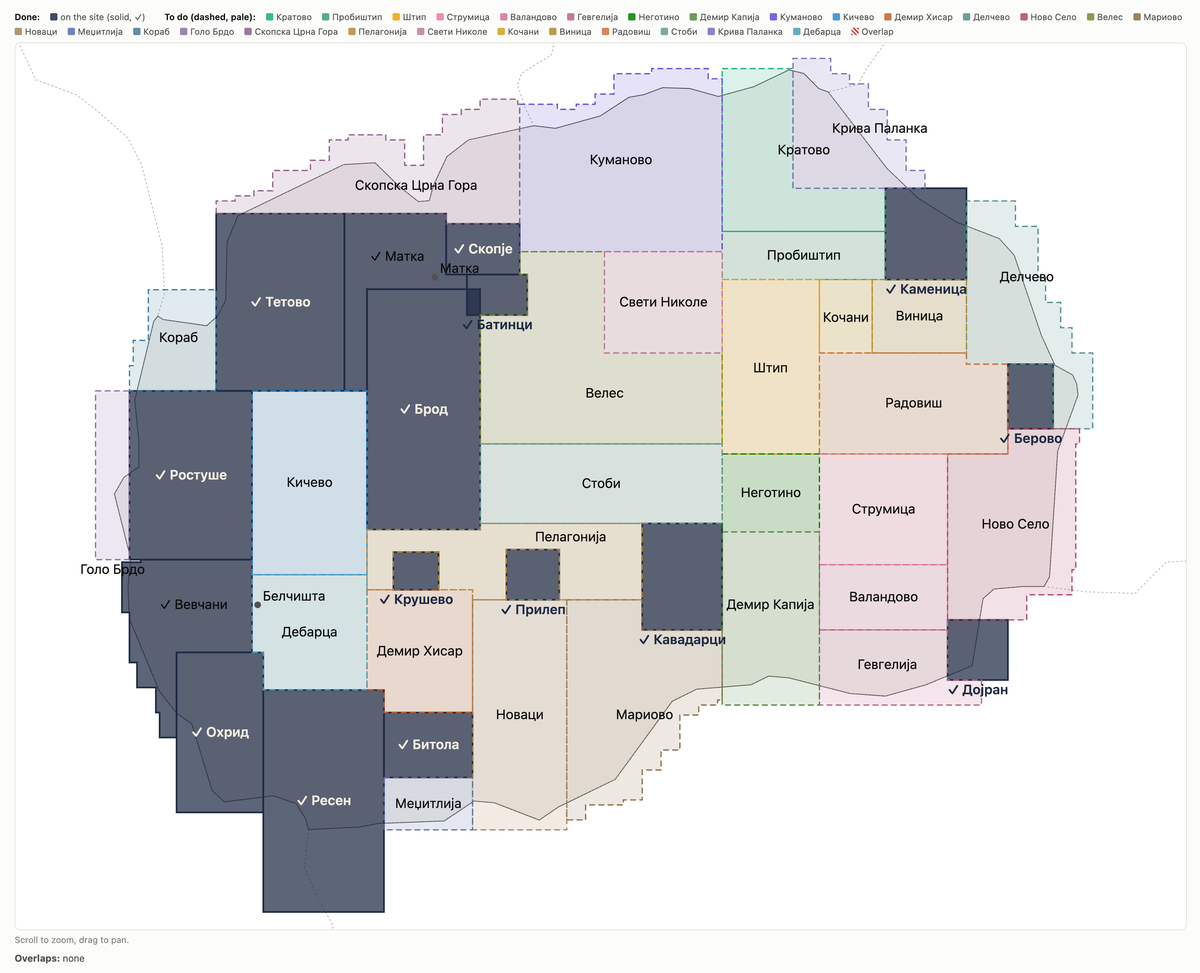
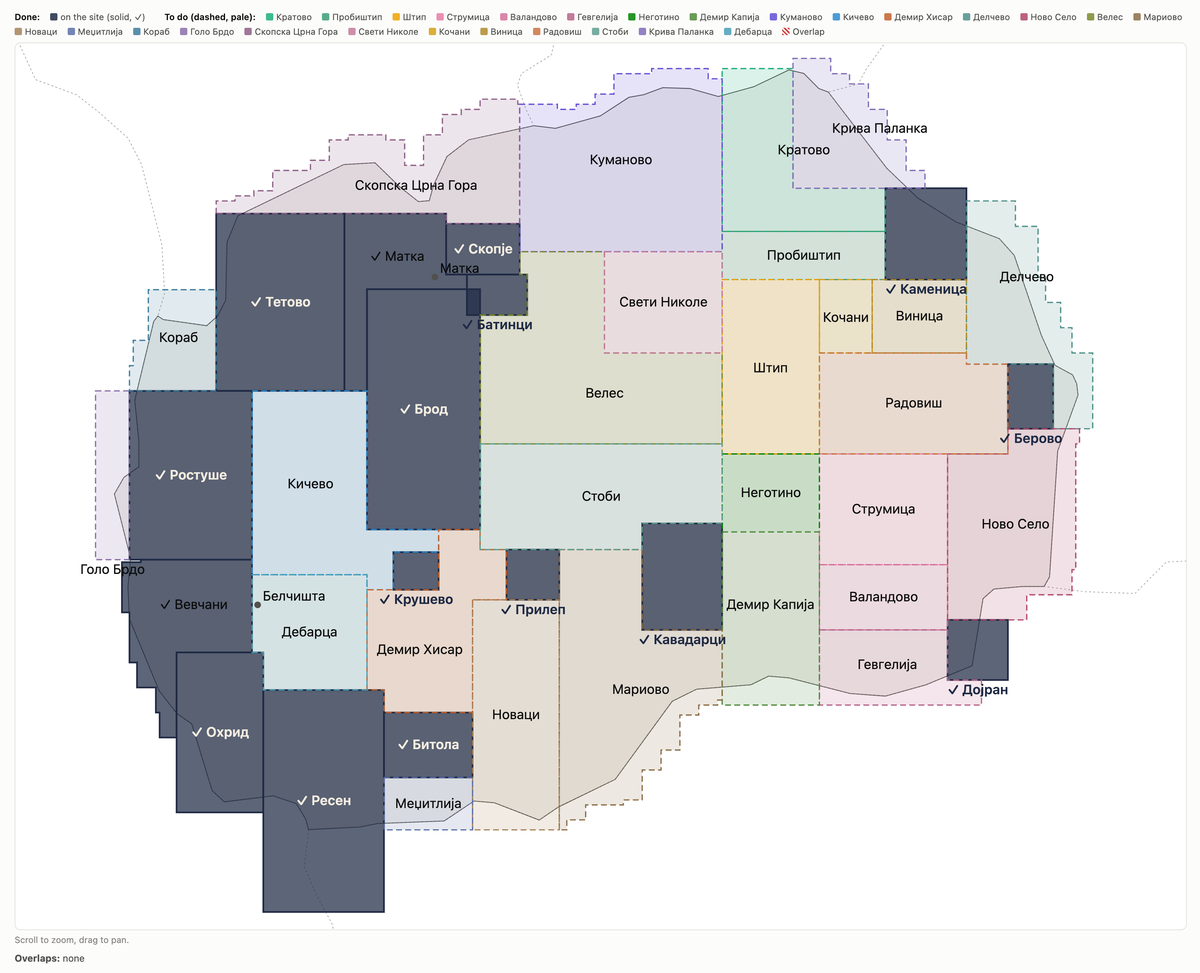
Towns plan: Пелагонија dropped, its parts to Кичево, Демир Хисар, Стоби and Мариово
Мариово reaches up to Стоби, Новаци's east edge lines up with Прилеп's, Стоби
reaches down to Прилеп's top (Кавадарци cut out), and Пелагонија is split:
west of and above Крушево to Кичево, the rest east of Крушево to Демир Хисар.
27 maps to do; areas, build order and the towns map redrawn.

diff --git a/src/zones.ts b/src/zones.ts
@@ -10,13 +10,13 @@ type Box = [name: string, s: number, w: number, n: number, e: number];
 type PlannedBox = [...Box, string];
 
 export const EXISTING: Box[] = [['Скопје', 41.955, 21.33, 42.055, 21.525], ['Кавадарци', 41.25, 21.85, 41.462, 22.062], ['Битола', 40.955, 21.165, 41.085, 21.40], ['Охрид', 40.885, 20.615, 41.205, 20.845], ['Прилеп', 41.31, 21.49, 41.41, 21.63], ['Крушево', 41.33, 21.19, 41.405, 21.31], ['Ростуше', 41.39, 20.49, 41.725, 20.815], ['Каменица', 41.945, 22.495, 42.125, 22.71], ['Дојран', 41.15, 22.66, 41.27, 22.82], ['Батинци', 41.875, 21.385, 41.955, 21.545], ['Берово', 41.65, 22.82, 41.778, 22.94], ['Тетово', 41.725, 20.72, 42.075, 21.06], ['Ресен', 40.685, 20.845, 41.13, 21.165], ['Брод', 41.45, 21.12, 41.926, 21.42], ['Матка', 41.725, 21.06, 42.075, 21.385], ['Вевчани', 41.035, 20.47, 41.39, 20.815]];
-export const PLANNED: PlannedBox[] = [['Кратово', 42.04, 22.062, 42.36, 22.495, '#1baf7a'], ['Пробиштип', 41.945, 22.062, 42.04, 22.495, '#3c9c74'], ['Штип', 41.60, 22.062, 41.945, 22.32, '#eda100'], ['Струмица', 41.38, 22.32, 41.60, 22.66, '#e87ba4'], ['Валандово', 41.25, 22.32, 41.38, 22.66, '#d2729a'], ['Гевгелија', 41.10, 22.32, 41.25, 22.75, '#b8648a'], ['Неготино', 41.445, 22.062, 41.60, 22.32, '#008300'], ['Демир Капија', 41.10, 22.062, 41.445, 22.32, '#4f8a3c'], ['Куманово', 42.00, 21.525, 42.36, 22.062, '#6250d6'], ['Кичево', 41.36, 20.815, 41.725, 21.12, '#2a8bd0'], ['Демир Хисар', 41.085, 21.12, 41.33, 21.40, '#c2622d'], ['Делчево', 41.65, 22.71, 42.20, 23.02, '#4f8f8a'], ['Ново Село', 41.27, 22.66, 41.65, 23.02, '#b0476b'], ['Велес', 41.62, 21.42, 42.00, 22.062, '#7a8a2e'], ['Мариово', 40.85, 21.65, 41.31, 22.062, '#8c6d46'], ['Новаци', 40.85, 21.40, 41.31, 21.65, '#a5825a'], ['Меџитлија', 40.85, 21.165, 40.955, 21.40, '#5b6fa8'], ['Кораб', 41.725, 20.49, 42.075, 20.72, '#3e7d9c'], ['Голо Брдо', 41.39, 20.40, 41.725, 20.49, '#8a6fa8'], ['Скопска Црна Гора', 42.055, 20.72, 42.30, 21.525, '#8e5f86'], ['Пелагонија', 41.31, 21.12, 41.462, 21.85, '#b58a3a'], ['Свети Николе', 41.80, 21.75, 42.00, 22.062, '#c47a9b'], ['Кочани', 41.80, 22.32, 41.945, 22.46, '#d4a017'], ['Виница', 41.80, 22.46, 41.945, 22.71, '#b08a2a'], ['Радовиш', 41.60, 22.32, 41.80, 22.82, '#c9733f'], ['Стоби', 41.462, 21.42, 41.62, 22.062, '#5f9e8f'], ['Крива Паланка', 42.125, 22.25, 42.36, 22.71, '#7f6bb8'], ['Дебарца', 41.13, 20.815, 41.36, 21.12, '#4a9fb5']];
+export const PLANNED: PlannedBox[] = [['Кратово', 42.04, 22.062, 42.36, 22.495, '#1baf7a'], ['Пробиштип', 41.945, 22.062, 42.04, 22.495, '#3c9c74'], ['Штип', 41.60, 22.062, 41.945, 22.32, '#eda100'], ['Струмица', 41.38, 22.32, 41.60, 22.66, '#e87ba4'], ['Валандово', 41.25, 22.32, 41.38, 22.66, '#d2729a'], ['Гевгелија', 41.10, 22.32, 41.25, 22.75, '#b8648a'], ['Неготино', 41.445, 22.062, 41.60, 22.32, '#008300'], ['Демир Капија', 41.10, 22.062, 41.445, 22.32, '#4f8a3c'], ['Куманово', 42.00, 21.525, 42.36, 22.062, '#6250d6'], ['Кичево', 41.33, 20.815, 41.725, 21.31, '#2a8bd0'], ['Демир Хисар', 41.085, 21.12, 41.45, 21.49, '#c2622d'], ['Делчево', 41.65, 22.71, 42.20, 23.02, '#4f8f8a'], ['Ново Село', 41.27, 22.66, 41.65, 23.02, '#b0476b'], ['Велес', 41.62, 21.42, 42.00, 22.062, '#7a8a2e'], ['Мариово', 40.85, 21.63, 41.41, 22.062, '#8c6d46'], ['Новаци', 40.85, 21.40, 41.31, 21.63, '#a5825a'], ['Меџитлија', 40.85, 21.165, 40.955, 21.40, '#5b6fa8'], ['Кораб', 41.725, 20.49, 42.075, 20.72, '#3e7d9c'], ['Голо Брдо', 41.39, 20.40, 41.725, 20.49, '#8a6fa8'], ['Скопска Црна Гора', 42.055, 20.72, 42.30, 21.525, '#8e5f86'], ['Свети Николе', 41.80, 21.75, 42.00, 22.062, '#c47a9b'], ['Кочани', 41.80, 22.32, 41.945, 22.46, '#d4a017'], ['Виница', 41.80, 22.46, 41.945, 22.71, '#b08a2a'], ['Радовиш', 41.60, 22.32, 41.80, 22.82, '#c9733f'], ['Стоби', 41.41, 21.42, 41.62, 22.062, '#5f9e8f'], ['Крива Паланка', 42.125, 22.25, 42.36, 22.71, '#7f6bb8'], ['Дебарца', 41.13, 20.815, 41.36, 21.12, '#4a9fb5']];
 /** rectangles cut out of a box's corners: [s, w, n, e] */
-export const CUTS: Record<string, [number, number, number, number][]> = { 'Дебарца': [[41.13, 20.815, 41.205, 20.845]], 'Демир Хисар': [[41.085, 21.12, 41.13, 21.165]], 'Радовиш': [[41.778, 22.71, 41.80, 22.82]], 'Кратово': [[42.125, 22.25, 42.36, 22.495]], 'Гевгелија': [[41.15, 22.66, 41.25, 22.75]] };
+export const CUTS: Record<string, [number, number, number, number][]> = { 'Дебарца': [[41.13, 20.815, 41.205, 20.845]], 'Радовиш': [[41.778, 22.71, 41.80, 22.82]], 'Кратово': [[42.125, 22.25, 42.36, 22.495]], 'Гевгелија': [[41.15, 22.66, 41.25, 22.75]], 'Стоби': [[41.41, 21.85, 41.462, 22.062]] };
 /** zones that are no rectangle at all: the outline as [lon, lat] */
-export const SHAPES: Record<string, [number, number][]> = { 'Куманово': [[21.525, 42.0], [21.525, 42.29], [21.625, 42.29], [21.625, 42.28], [21.675, 42.28], [21.675, 42.29], [21.725, 42.29], [21.725, 42.31], [21.775, 42.31], [21.775, 42.35], [21.875, 42.35], [21.875, 42.36], [22.025, 42.36], [22.025, 42.34], [22.062, 42.34], [22.062, 42.0]], 'Ново Село': [[22.66, 41.27], [22.66, 41.6], [22.82, 41.6], [22.82, 41.65], [23.01, 41.65], [23.01, 41.62], [23.0, 41.62], [23.0, 41.37], [22.99, 41.37], [22.99, 41.32], [22.87, 41.32], [22.87, 41.27]], 'Крива Паланка': [[22.25, 42.125], [22.25, 42.38], [22.35, 42.38], [22.35, 42.35], [22.4, 42.35], [22.4, 42.33], [22.45, 42.33], [22.45, 42.28], [22.5, 42.28], [22.5, 42.22], [22.55, 42.22], [22.55, 42.16], [22.6, 42.16], [22.6, 42.125]], 'Мариово': [[21.65, 41.31], [21.85, 41.31], [21.85, 41.25], [22.062, 41.25], [22.062, 41.11], [22.05, 41.11], [22.05, 41.1], [22.0, 41.1], [22.0, 41.08], [21.95, 41.08], [21.95, 41.01], [21.9, 41.01], [21.9, 40.97], [21.85, 40.97], [21.85, 40.91], [21.8, 40.91], [21.8, 40.9], [21.7, 40.9], [21.7, 40.87], [21.65, 40.87]], 'Делчево': [[22.94, 41.65], [22.94, 41.778], [22.71, 41.778], [22.71, 42.1], [22.84, 42.1], [22.84, 42.05], [22.9, 42.05], [22.9, 41.95], [22.92, 41.95], [22.92, 41.9], [22.96, 41.9], [22.96, 41.85], [22.99, 41.85], [22.99, 41.8], [23.045, 41.8], [23.045, 41.65]], 'Кораб': [[20.72, 41.725], [20.49, 41.725], [20.49, 41.775], [20.5, 41.775], [20.5, 41.825], [20.54, 41.825], [20.54, 41.925], [20.72, 41.925]], 'Вевчани': [[20.815, 41.39], [20.815, 41.205], [20.615, 41.205], [20.615, 41.035], [20.57, 41.035], [20.57, 41.085], [20.56, 41.085], [20.56, 41.135], [20.51, 41.135], [20.51, 41.185], [20.49, 41.185], [20.49, 41.285], [20.47, 41.285], [20.47, 41.385], [20.52, 41.385], [20.52, 41.39]], 'Скопска Црна Гора': [[20.72, 42.075], [20.72, 42.1], [20.77, 42.1], [20.77, 42.11], [20.82, 42.11], [20.82, 42.12], [20.87, 42.12], [20.87, 42.16], [20.97, 42.16], [20.97, 42.18], [21.02, 42.18], [21.02, 42.22], [21.07, 42.22], [21.07, 42.23], [21.17, 42.23], [21.17, 42.22], [21.22, 42.22], [21.22, 42.17], [21.27, 42.17], [21.27, 42.23], [21.32, 42.23], [21.32, 42.27], [21.37, 42.27], [21.37, 42.28], [21.42, 42.28], [21.42, 42.3], [21.52, 42.3], [21.52, 42.29], [21.525, 42.29], [21.525, 42.055], [21.33, 42.055], [21.33, 42.075]], 'Велес': [[21.42, 41.875], [21.545, 41.875], [21.545, 41.955], [21.525, 41.955], [21.525, 42.00], [21.75, 42.00], [21.75, 41.80], [22.062, 41.80], [22.062, 41.62], [21.42, 41.62]], 'Пелагонија': [[21.12, 41.45], [21.42, 41.45], [21.42, 41.462], [21.85, 41.462], [21.85, 41.31], [21.63, 41.31], [21.63, 41.41], [21.49, 41.41], [21.49, 41.31], [21.40, 41.31], [21.40, 41.33], [21.31, 41.33], [21.31, 41.405], [21.19, 41.405], [21.19, 41.33], [21.12, 41.33]], 'Матка': [[21.06, 42.075], [21.33, 42.075], [21.33, 41.955], [21.385, 41.955], [21.385, 41.926], [21.12, 41.926], [21.12, 41.725], [21.06, 41.725]] };
+export const SHAPES: Record<string, [number, number][]> = { 'Куманово': [[21.525, 42.0], [21.525, 42.29], [21.625, 42.29], [21.625, 42.28], [21.675, 42.28], [21.675, 42.29], [21.725, 42.29], [21.725, 42.31], [21.775, 42.31], [21.775, 42.35], [21.875, 42.35], [21.875, 42.36], [22.025, 42.36], [22.025, 42.34], [22.062, 42.34], [22.062, 42.0]], 'Ново Село': [[22.66, 41.27], [22.66, 41.6], [22.82, 41.6], [22.82, 41.65], [23.01, 41.65], [23.01, 41.62], [23.0, 41.62], [23.0, 41.37], [22.99, 41.37], [22.99, 41.32], [22.87, 41.32], [22.87, 41.27]], 'Крива Паланка': [[22.25, 42.125], [22.25, 42.38], [22.35, 42.38], [22.35, 42.35], [22.4, 42.35], [22.4, 42.33], [22.45, 42.33], [22.45, 42.28], [22.5, 42.28], [22.5, 42.22], [22.55, 42.22], [22.55, 42.16], [22.6, 42.16], [22.6, 42.125]], 'Мариово': [[21.63, 41.41], [21.85, 41.41], [21.85, 41.25], [22.062, 41.25], [22.062, 41.11], [22.05, 41.11], [22.05, 41.1], [22.0, 41.1], [22.0, 41.08], [21.95, 41.08], [21.95, 41.01], [21.9, 41.01], [21.9, 40.97], [21.85, 40.97], [21.85, 40.91], [21.8, 40.91], [21.8, 40.9], [21.7, 40.9], [21.7, 40.87], [21.65, 40.87], [21.65, 40.85], [21.63, 40.85]], 'Делчево': [[22.94, 41.65], [22.94, 41.778], [22.71, 41.778], [22.71, 42.1], [22.84, 42.1], [22.84, 42.05], [22.9, 42.05], [22.9, 41.95], [22.92, 41.95], [22.92, 41.9], [22.96, 41.9], [22.96, 41.85], [22.99, 41.85], [22.99, 41.8], [23.045, 41.8], [23.045, 41.65]], 'Кораб': [[20.72, 41.725], [20.49, 41.725], [20.49, 41.775], [20.5, 41.775], [20.5, 41.825], [20.54, 41.825], [20.54, 41.925], [20.72, 41.925]], 'Вевчани': [[20.815, 41.39], [20.815, 41.205], [20.615, 41.205], [20.615, 41.035], [20.57, 41.035], [20.57, 41.085], [20.56, 41.085], [20.56, 41.135], [20.51, 41.135], [20.51, 41.185], [20.49, 41.185], [20.49, 41.285], [20.47, 41.285], [20.47, 41.385], [20.52, 41.385], [20.52, 41.39]], 'Скопска Црна Гора': [[20.72, 42.075], [20.72, 42.1], [20.77, 42.1], [20.77, 42.11], [20.82, 42.11], [20.82, 42.12], [20.87, 42.12], [20.87, 42.16], [20.97, 42.16], [20.97, 42.18], [21.02, 42.18], [21.02, 42.22], [21.07, 42.22], [21.07, 42.23], [21.17, 42.23], [21.17, 42.22], [21.22, 42.22], [21.22, 42.17], [21.27, 42.17], [21.27, 42.23], [21.32, 42.23], [21.32, 42.27], [21.37, 42.27], [21.37, 42.28], [21.42, 42.28], [21.42, 42.3], [21.52, 42.3], [21.52, 42.29], [21.525, 42.29], [21.525, 42.055], [21.33, 42.055], [21.33, 42.075]], 'Велес': [[21.42, 41.875], [21.545, 41.875], [21.545, 41.955], [21.525, 41.955], [21.525, 42.00], [21.75, 42.00], [21.75, 41.80], [22.062, 41.80], [22.062, 41.62], [21.42, 41.62]], 'Кичево': [[20.815, 41.725], [21.12, 41.725], [21.12, 41.45], [21.31, 41.45], [21.31, 41.405], [21.19, 41.405], [21.19, 41.33], [21.12, 41.33], [21.12, 41.36], [20.815, 41.36]], 'Демир Хисар': [[21.12, 41.13], [21.12, 41.33], [21.31, 41.33], [21.31, 41.45], [21.42, 41.45], [21.42, 41.41], [21.49, 41.41], [21.49, 41.31], [21.40, 41.31], [21.40, 41.085], [21.165, 41.085], [21.165, 41.13]], 'Матка': [[21.06, 42.075], [21.33, 42.075], [21.33, 41.955], [21.385, 41.955], [21.385, 41.926], [21.12, 41.926], [21.12, 41.725], [21.06, 41.725]] };
 /** where a zone's name sits when the middle of its box is not a good place: [lat, lon] */
-export const LABEL_AT: Record<string, [number, number]> = { 'Кочани': [41.87, 22.39], 'Демир Капија': [41.30, 22.19], 'Велес': [41.72, 21.75], 'Пелагонија': [41.435, 21.66], 'Матка': [41.99, 21.20], 'Скопска Црна Гора': [42.13, 21.25], 'Вевчани': [41.30, 20.66], 'Кораб': [41.83, 20.62], 'Гевгелија': [41.18, 22.50], 'Делчево': [41.95, 22.87], 'Штип': [41.77, 22.19] };
+export const LABEL_AT: Record<string, [number, number]> = { 'Кочани': [41.87, 22.39], 'Демир Капија': [41.30, 22.19], 'Велес': [41.72, 21.75], 'Кичево': [41.54, 20.97], 'Демир Хисар': [41.21, 21.26], 'Матка': [41.99, 21.20], 'Скопска Црна Гора': [42.13, 21.25], 'Вевчани': [41.30, 20.66], 'Кораб': [41.83, 20.62], 'Гевгелија': [41.18, 22.50], 'Делчево': [41.95, 22.87], 'Штип': [41.77, 22.19] };
 
 /** the finished maps' names on the plan → the app's city ids */
 const CITY_OF: Record<string, CityId> = {

diff --git a/docs/TOWNS_TODO.md b/docs/TOWNS_TODO.md
@@ -18,26 +18,25 @@ opens through the dev server. With `npm run dev` running:
 "/Applications/Google Chrome.app/Contents/MacOS/Google Chrome" --headless=new --disable-gpu --hide-scrollbars --force-device-scale-factor=2 --window-size=1640,1330 --virtual-time-budget=8000 --screenshot=docs/towns-map.png http://localhost:5173/scripts/towns-map.html
 ```
 
-**To do: 28 new maps**, all edge to edge, no overlaps, the whole country covered. Largest first (km², official
+**To do: 27 new maps**, all edge to edge, no overlaps, the whole country covered. Largest first (km², official
 towns on it):
 
 | Map | ~km² | Towns | | Map | ~km² | Towns |
 |---|---|---|---|---|---|---|
-| Куманово | 1620 | Куманово | | | | |
+| Куманово | 1620 | Куманово | | Струмица | 690 | Струмица |
 | Велес | 1540 | Велес | | Дебарца | 630 | — |
-| Мариово* | 1170 | — | | Демир Хисар | 620 | Демир Хисар |
-| Ново Село* | 1060 | — | | Свети Николе | 580 | Свети Николе |
-| Новаци* | 1060 | — | | Крива Паланка | 570 | Крива Паланка |
-| Кичево | 1030 | Кичево | | Гевгелија | 510 | Гевгелија, Богданци |
-| Скопска Црна Гора* | 1010 | — | | | | |
-| Стоби* | 940 | — | | Валандово | 410 | Валандово |
-| Радовиш | 900 | Радовиш | | Пробиштип | 380 | Пробиштип |
-| Штип | 820 | Штип | | Неготино | 370 | Неготино |
-| Демир Капија | 820 | Демир Капија | | Кораб* | 370 | — |
-| Делчево | 770 | Делчево | | Виница | 340 | Виница |
-| Кратово | 750 | Кратово | | Голо Брдо* | 280 | — |
-| Пелагонија* | 730 | — | | Меџитлија* | 230 | — |
-| Струмица | 690 | Струмица | | Кочани | 190 | Кочани |
+| Мариово* | 1460 | — | | Свети Николе | 580 | Свети Николе |
+| Кичево | 1160 | Кичево | | Крива Паланка | 570 | Крива Паланка |
+| Стоби* | 1150 | — | | Гевгелија | 510 | Гевгелија, Богданци |
+| Ново Село* | 1060 | — | | Валандово | 410 | Валандово |
+| Скопска Црна Гора* | 1010 | — | | Пробиштип | 380 | Пробиштип |
+| Новаци* | 970 | — | | Неготино | 370 | Неготино |
+| Радовиш | 900 | Радовиш | | Кораб* | 370 | — |
+| Штип | 820 | Штип | | Виница | 340 | Виница |
+| Демир Капија | 820 | Демир Капија | | Голо Брдо* | 280 | — |
+| Демир Хисар | 810 | Демир Хисар | | Меџитлија* | 230 | — |
+| Делчево | 770 | Делчево | | Кочани | 190 | Кочани |
+| Кратово | 750 | Кратово | | | | |
 
 \* working names. Only Гевгелија holds two towns now (Богданци is next to it). For comparison, the largest finished
 maps are Брод and Ресен (about 1320 km² each); areas include the parts across the borders.
@@ -48,9 +47,9 @@ terrain stays the full rectangle and every OSM feature in the cut rectangles is 
 in `scripts/config.ts`, `cutOsm()` in `scripts/osm.ts`, used by `prepare.ts` and `terrain.ts`; first used by Матка:
 points and buildings with a corner inside are dropped, roads and rivers split at the edge, areas clipped; download
 tiles wholly inside a cut are skipped), so the corner shows bare relief, as outside a map. The cuts so far:
-Дебарца (Охрид's corner), Демир Хисар (Ресен's), Мариово (Кавадарци's), Вевчани (all of Охрид's
+Дебарца (Охрид's corner), Мариово (Кавадарци's), Вевчани (all of Охрид's
 map: Вевчани is an L around its north-west; built: Охрид's map and the stepped border edge cut), Делчево (Берово's and Радовиш's), Радовиш (Делчево's), Кратово (Крива Паланка's).
-Гевгелија (Дојран's). Велес, Матка (built: Скопје's and Брод's corners cut), Пелагонија, Скопска Црна Гора, Крива Паланка, Делчево, Мариово, Вевчани, Кораб,
+Гевгелија (Дојран's). Велес, Матка (built: Скопје's and Брод's corners cut), Кичево, Демир Хисар, Стоби, Скопска Црна Гора, Крива Паланка, Делчево, Мариово, Вевчани, Кораб,
 Куманово and Ново Село are not rectangles with one corner cut but outlines that go around several maps
 (`shapes` in the plan page); in the app they would be their bounding rectangle with those maps cut out.
 
@@ -82,24 +81,23 @@ bigger than its area suggests (dense villages: Тетово is 1100 km² and 16 
 | 10 | Гевгелија | 510 | Гевгелија, Богданци | 30 |
 | 11 | Крива Паланка | 570 | Крива Паланка | 26 |
 | 12 | Свети Николе | 580 | Свети Николе | 22 |
-| 13 | Демир Хисар | 620 | Демир Хисар | 11 |
-| 14 | Дебарца | 630 | — | 27 |
-| 15 | Струмица | 690 | Струмица | 4 |
-| 16 | ~~Вевчани~~ built (2026-11-23, out of order) | 690 | — | 12 |
-| 17 | Пелагонија* | 730 | — | 21 |
-| 18 | Кратово | 750 | Кратово | 2 |
-| 19 | Делчево | 770 | Делчево | 13 |
-| 20 | Штип | 820 | Штип | 3 |
-| 21 | Демир Капија | 820 | Демир Капија | 31 |
-| 22 | Радовиш | 900 | Радовиш | 24 |
-| 23 | Стоби* | 940 | — | 25 |
-| 24 | Скопска Црна Гора* | 1010 | — | 33 |
-| 25 | Кичево | 1030 | Кичево | 10 |
-| 26 | Ново Село* | 1060 | — | 14 |
-| 27 | Новаци* | 1060 | — | 34 |
-| 28 | Мариово* | 1170 | — | 16 |
-| 29 | Велес | 1540 | Велес | 15 |
-| 30 | Куманово | 1620 | Куманово | 6 |
+| 13 | Дебарца | 630 | — | 27 |
+| 14 | Струмица | 690 | Струмица | 4 |
+| 15 | ~~Вевчани~~ built (2026-11-23, out of order) | 690 | — | 12 |
+| 16 | Кратово | 750 | Кратово | 2 |
+| 17 | Делчево | 770 | Делчево | 13 |
+| 18 | Демир Хисар | 810 | Демир Хисар | 11 |
+| 19 | Штип | 820 | Штип | 3 |
+| 20 | Демир Капија | 820 | Демир Капија | 31 |
+| 21 | Радовиш | 900 | Радовиш | 24 |
+| 22 | Новаци* | 970 | — | 34 |
+| 23 | Скопска Црна Гора* | 1010 | — | 33 |
+| 24 | Ново Село* | 1060 | — | 14 |
+| 25 | Стоби* | 1150 | — | 25 |
+| 26 | Кичево | 1160 | Кичево | 10 |
+| 27 | Мариово* | 1460 | — | 16 |
+| 28 | Велес | 1540 | Велес | 15 |
+| 29 | Куманово | 1620 | Куманово | 6 |
 
 \* working names. Next to build: the first row.
 
@@ -250,19 +248,23 @@ bigger than its area suggests (dense villages: Тетово is 1100 km² and 16 
 - **Code:** open (phone code 045). `?city=kicevo`.
 - **Extent:** w 20.815 (Ростуше's e), e 21.12 (Брод's w), n 41.725 (Тетово's s), s ~41.36 (Пресека, the pass to
   Охрид: check in OSM). The first Кичево map reached down to Ресен; on 2026-11-23 the owner split its south part off
-  as Дебарца (27). About 1030 km², 20 m cells. No overlaps.
+  as Дебарца (27). The same day it took the west of Пелагонија (21, dropped): an outline (`SHAPES`) that also runs
+  under Брод (41.405–41.45 N, 21.12–21.31 E: over Крушево to its e side) and down Крушево's w side
+  (41.33–41.405 N, 21.12–21.19 E). Its rectangle would be 41.33–41.725 N, 20.815–21.31 E. About 1160 km²,
+  20 m cells. No overlaps.
 - **Landmarks:** Пречиста, the town centre, the Треска's upper valley.
 
 ### 11. Демир Хисар
 
-- **On it:** Демир Хисар, Слепче monastery, Смилево, the hills down to Битола's map and the edge of Пелагонија
-  below Крушево.
+- **On it:** Демир Хисар, Слепче monastery, Смилево, the hills down to Битола's map, the edge of Пелагонија
+  between Крушево and Прилеп (Кривогаштани, Житоше, Ропотово).
 - **Code:** open (phone code 047). `?city=demirhisar`.
 - **Extent:** **edge to edge** (decided with the owner on 2026-11-23): w 21.12 (Дебарца's e), e 21.40 (Битола's e and
   Новаци's w; first 21.49, trimmed so the two do not overlap), n 41.33 (Крушево's s), s 41.085 (Битола's n).
-  About 23 × 27 km, 20 m cells.
-  **Cut corner** (decided 2026-11-23): Ресен's north-east corner (41.085–41.13 N, 21.12–21.165 E, about 5 × 3.7 km)
-  is left out of this map.
+  Ресен's north-east corner (41.085–41.13 N, 21.12–21.165 E) is left out. Later on 2026-11-23 it took the east of
+  Пелагонија (21, dropped): north of Новаци it reaches 21.49 (Прилеп's w) and up to 41.45 (Брод's s) east of Крушево
+  (21.31) and 41.41 (Стоби's s) east of 21.42. An outline (`SHAPES`); its rectangle would be 41.085–41.45 N,
+  21.12–21.49 E. About 810 km², 20 m cells. No overlaps.
 - **Landmarks:** Слепче, Смилево (the Илинден congress), the Црна's upper valley.
 
 ### 12. 046 Вевчани — built (2026-11-23, branch `city-vevcani`)
@@ -330,10 +332,10 @@ bigger than its area suggests (dense villages: Тетово is 1100 km² and 16 
 - **On it:** Мариово (Витолиште, Мемориште, Скочивир, Старавина), Кајмакчалан and the Нице front, the Црна's gorge,
   Тиквешко Езеро's upper end.
 - **Name / code:** open (working name Мариово).
-- **Extent:** decided with the owner on 2026-11-23: n 41.31 (Прилеп's s side, Пелагонија's s), s ~40.85 (past the Greek
-  border everywhere: check in OSM), w 21.65 (Новаци's e: the first Мариово map reached west to Битола and was split,
-  34), e 22.062 (Демир Капија's w). **Cut corner** (decided 2026-11-23): Кавадарци's south-west corner (41.25–41.31 N,
-  21.85–22.062 E) is left out. About 1650 km², 20 m cells; its south is Greece.
+- **Extent:** decided with the owner on 2026-11-23: n 41.41 (Стоби's s, level with Прилеп's n), s ~40.85 (past the Greek
+  border everywhere: check in OSM), w 21.63 (Прилеп's and Новаци's e: the first Мариово map reached west to Битола and
+  was split, 34), e 22.062 (Демир Капија's w), but only up to 41.25 east of 21.85: Кавадарци's map is left out.
+  An outline (`SHAPES`). About 1460 km², 20 m cells; its south is Greece.
   **Trimmed to the border** (2026-11-23): the s edge steps from 41.11 (east) down to 40.87 (west), about 2 km past
   the OSM border with Greece.
 - **Landmarks:** Кајмакчалан's chapel at the summit, the Црна in its canyon, Мариово's stone villages.
@@ -391,16 +393,10 @@ bigger than its area suggests (dense villages: Тетово is 1100 km² and 16 
   would have taken, so the reference map stays as it is.
 - **Landmarks:** Матка, Св. Андреј, Св. Никола Шишевски, the Матка dam.
 
-### 21. Пелагонија (name open)
+### 21. Пелагонија — dropped (2026-11-23)
 
-- **On it:** the Pelagonian plain and hills around Крушево and Прилеп: Долнени, Кривогаштани, Житоше, Ропотово,
-  Сливје, Тополчани, Чепигово; the road and railway between Прилеп and Велес up to Плетвар.
-- **Name / code:** open (working name Пелагонија).
-- **Extent:** decided with the owner on 2026-11-23, an outline with 90° corners (`SHAPES` in `src/zones.ts`):
-  w 21.12 (Кичево's and Дебарца's e), e 21.85 (Кавадарци's w), n 41.45 (Брод's s) and 41.462 (Стоби's s), s 41.33 (Демир Хисар's n)
-  and 41.31 (Мариово's n); Крушево's and Прилеп's maps are cut out of its south edge. Its rectangle would be
-  41.31–41.462 N, 21.12–21.85 E. About 720 km², 20 m cells. No overlaps. With it every part of the country is on a map.
-- **Landmarks:** the plain's villages and fields (`farmMask` as in Битола), Плетвар pass.
+Split up by the owner: the strip west of and above Крушево went to Кичево (10), the part between Крушево and Прилеп
+to Демир Хисар (11), the strip above Прилеп to Стоби (25), the part east of Прилеп to Мариово (16).
 
 ### 22. Свети Николе
 
@@ -432,8 +428,9 @@ bigger than its area suggests (dense villages: Тетово is 1100 km² and 16 
 
 - **On it:** Стоби, Градско, Росоман, the Вардар from Градско to Кавадарци's map, the Црна's mouth.
 - **Name / code:** open (working name Стоби).
-- **Extent:** split off Велес by the owner on 2026-11-23: n 41.62 (Велес's s), s 41.462 (Кавадарци's n), w 21.42 (Брод's e
-  and, below 41.45, Пелагонија's n step), e 22.062 (Неготино's w). About 940 km², 20 m cells. No overlaps.
+- **Extent:** split off Велес by the owner on 2026-11-23: n 41.62 (Велес's s), s 41.41 (Прилеп's n, Демир Хисар's and
+  Мариово's n), w 21.42 (Брод's and Демир Хисар's e), e 22.062 (Неготино's w). **Cut corner:** Кавадарци's north-west
+  part (41.41–41.462 N, 21.85–22.062 E) is left out. About 1150 km², 20 m cells. No overlaps.
 - **Landmarks:** Стоби's ruins (theatre, basilicas, mosaics: Хераклеа's theatre and canvases in `bitola.ts` can
   serve), Градско's Vardar bridge.
 
@@ -518,8 +515,8 @@ bigger than its area suggests (dense villages: Тетово is 1100 km² and 16 
   before the gorge; Нидже's north slopes at the Greek border.
 - **Name / code:** open (working name Новаци, phone code 047).
 - **Extent:** split off Мариово by the owner on 2026-11-23: w 21.40 (Битола's, Меџитлија's and Демир Хисар's e),
-  e 21.65 (Мариово's w), n 41.31 (Пелагонија's and Прилеп's s), s ~40.85 (past the Greek border: check in OSM).
-  About 1060 km², 20 m cells.
+  e 21.63 (Прилеп's e, Мариово's w), n 41.31 (Демир Хисар's and Прилеп's s), s ~40.85 (past the Greek border: check
+  in OSM). About 970 km², 20 m cells.
 - **Landmarks:** the plain's fields (`farmMask`, as Битола), the Црна, the Нице front's western end.
 
 ## Not placed yet
